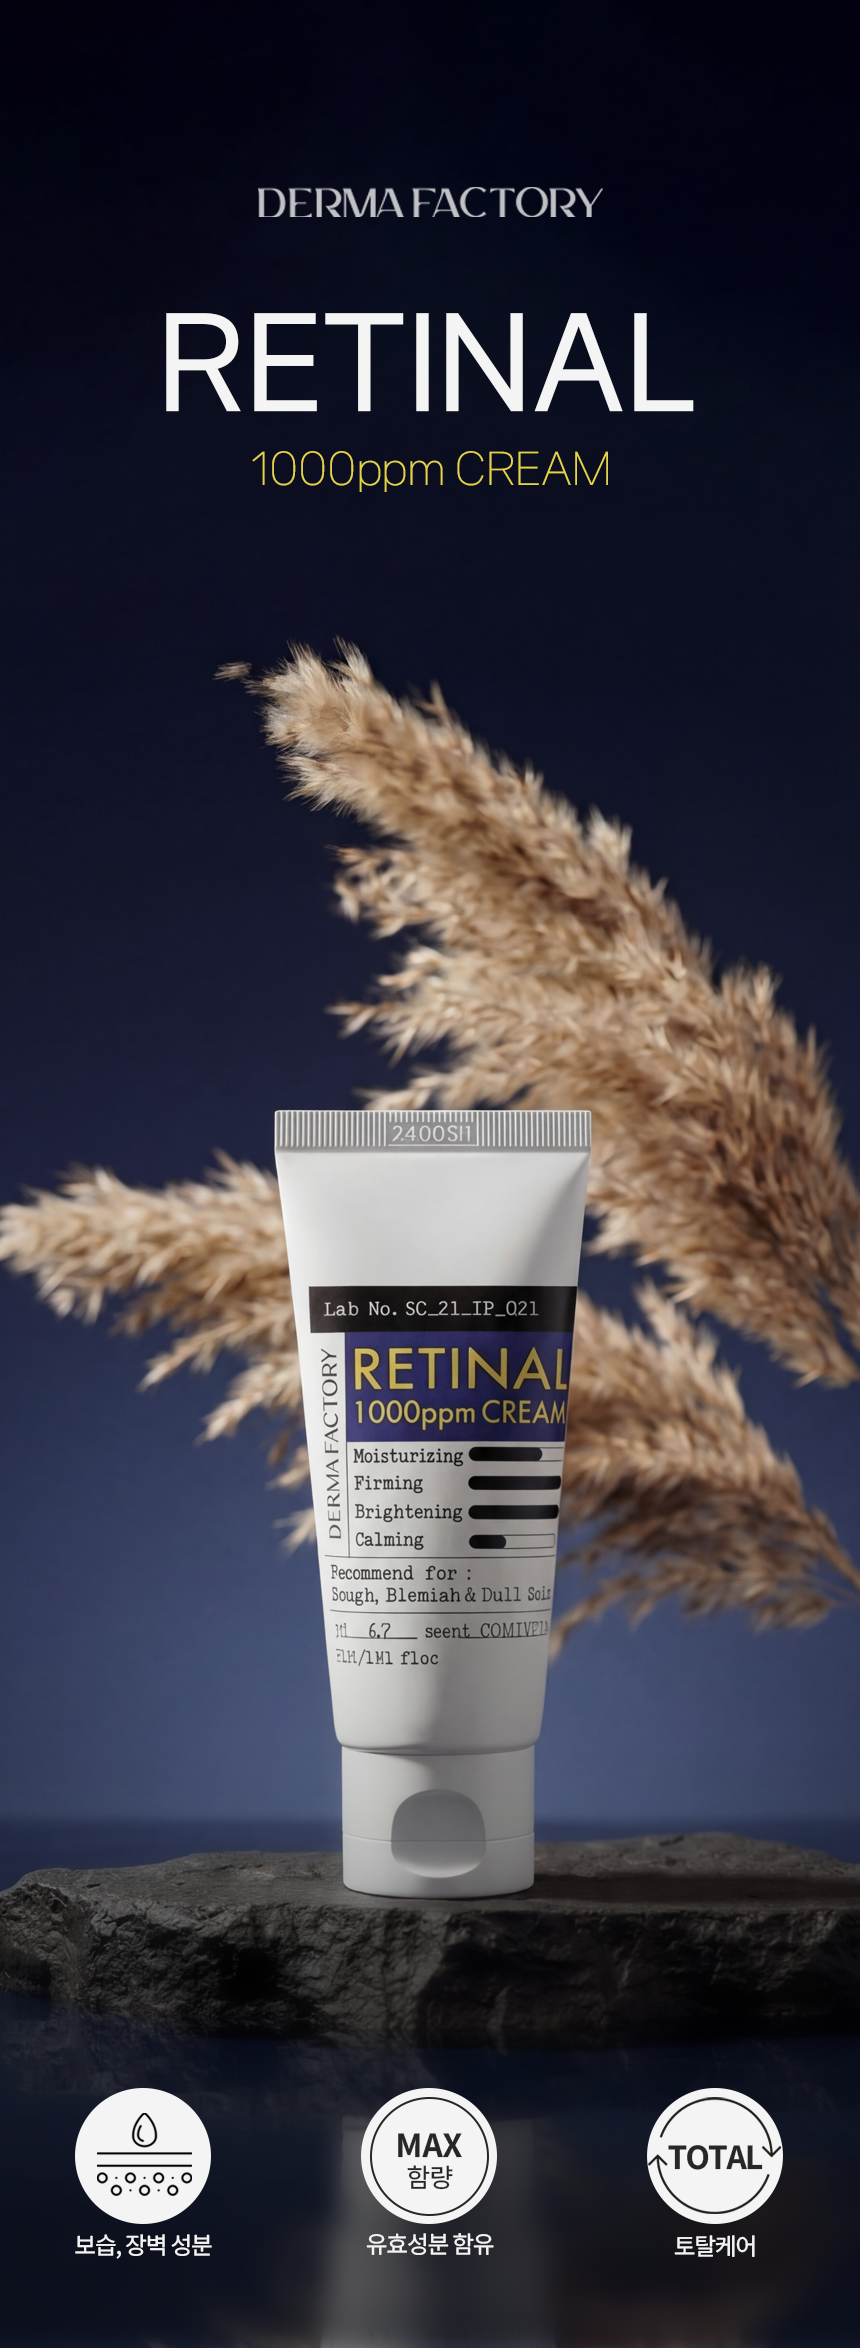
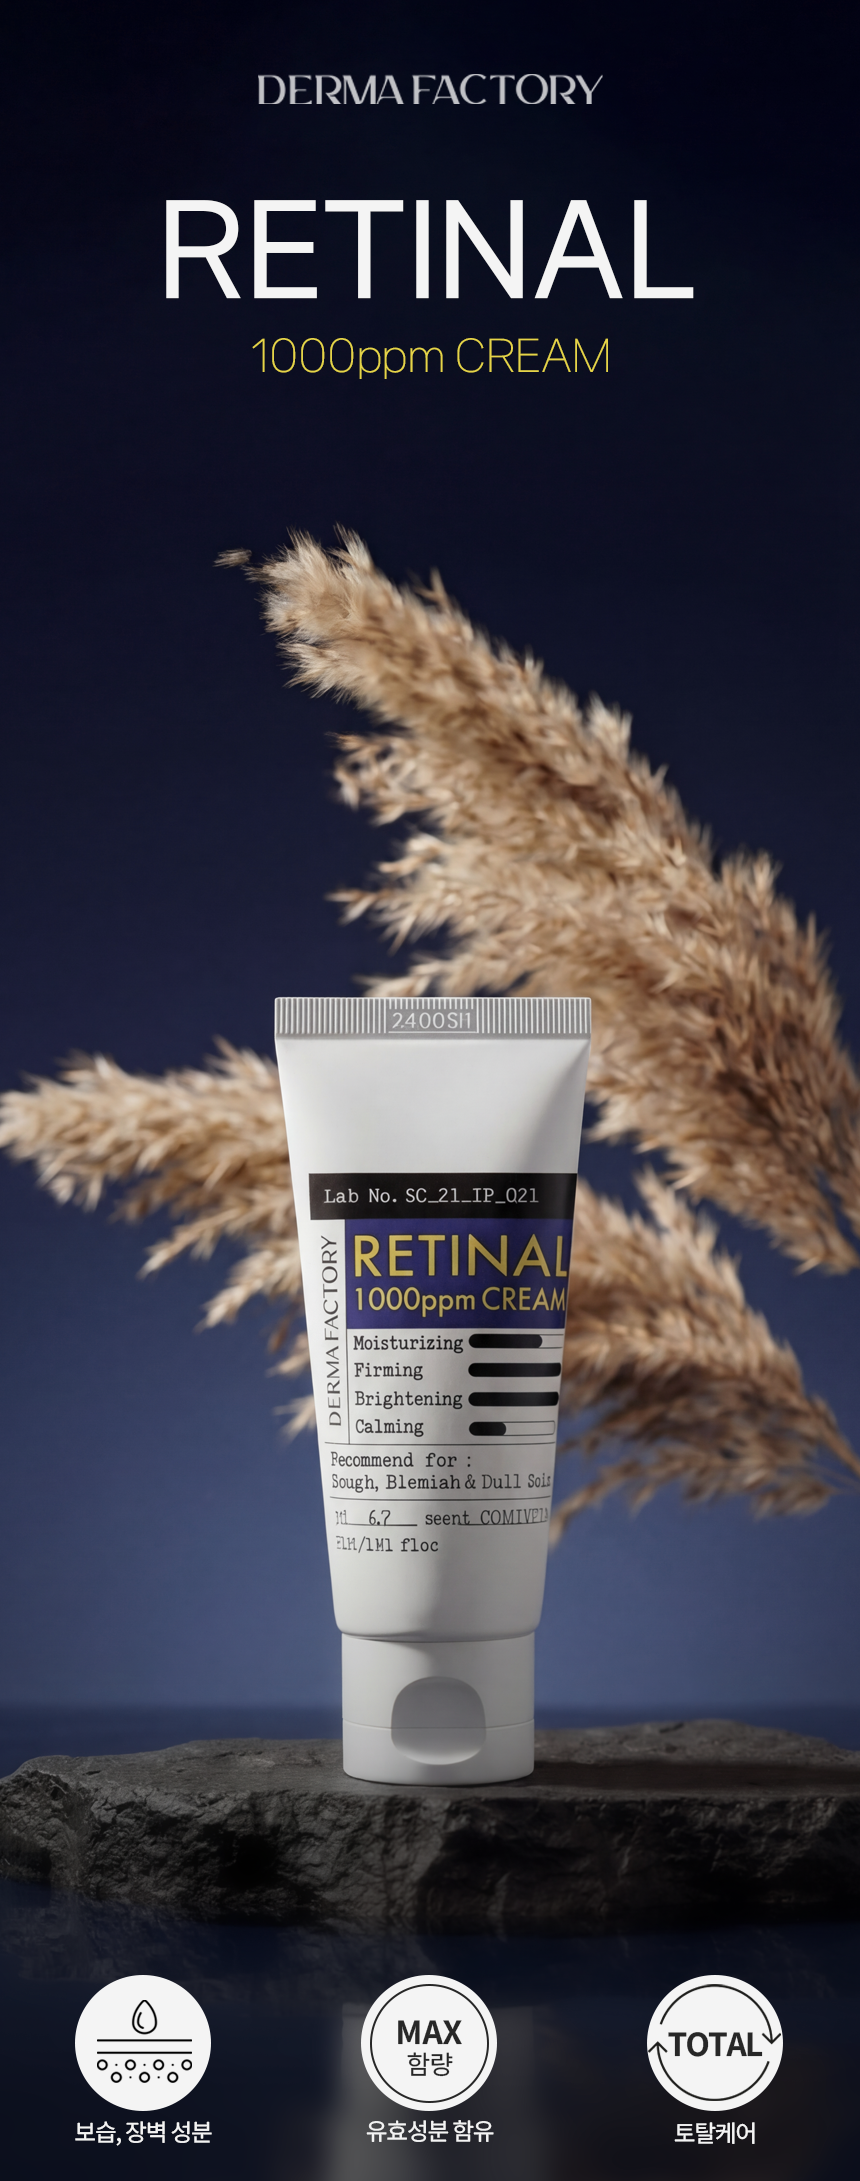
여백수정 및 모달 추가

Changed region(s): [[0.0, 0.0312, 1.0, 1.0], [0.7256, 0.873, 0.907, 1.0], [0.2721, 0.9977, 0.393, 1.0]]

diff --git a/style.css b/style.css
@@ -236,11 +236,11 @@ nav ul li a:hover {
 /* About Section */
 .about-section {
     display: flex;
-    padding: 0 15%;
-    margin-bottom: 120px;
+    padding: 0 10%;
+    margin-bottom: 80px;
     gap: 60px;
     align-items: center;
-    padding-top: 120px;
+    padding-top: 80px;
     padding-bottom: 120px;
 }
 .profile-area {
@@ -347,7 +347,7 @@ nav ul li a:hover {
 .projects-section {
     background-color: #0c0c0c;
     color: #fff;
-    padding: 100px 10%;
+    padding: 80px 10%;
 }
 .section-title {
     text-align: center;
@@ -357,7 +357,7 @@ nav ul li a:hover {
 .project-item {
     display: flex;
     gap: 50px;
-    margin-bottom: 200px;
+    margin-bottom: 120px;
     align-items: center;
 }
 .project-item.reverse {
@@ -562,8 +562,8 @@ nav ul li a:hover {
     transform: scale(1.2); /* 살짝 커지는 효과 */
 }
 .process-block {
-    height: 100vh;
-    display: flex;
+    height: 120px 0;
+    /* display: flex; */
     flex-direction: column;
     justify-content: center;
     scroll-snap-align: center;
@@ -697,8 +697,8 @@ footer h2 {
     align-items: center; /* 수직 중앙 정렬 */
     justify-content: center;
     gap: 8px; /* 글자와 아이콘 사이의 간격 */
-    background: #fff;
-    color: #000;
+    background: #000000;
+    color: #ffffff;
     padding: 8px 24px;
     border: 1px solid #ddd;
     border-radius: 30px;
@@ -718,12 +718,11 @@ footer h2 {
     transition: filter 0.3s ease;
 }
 .btn-download:hover {
-    background: #111;
-    color: #fff;
+    background: #ffffff;
+    color: #000000;
 }
-/* 다운로드 버튼에 마우스를 올렸을 때(hover) 내부 아이콘 하얗게 반전시키기 */
 .btn-download:hover img {
-    filter: brightness(0) invert(1);
+    filter: brightness(0);
 }
 .social-icons {
     display: flex;
@@ -858,4 +857,129 @@ footer h2 {
    id가 contact인 영역 안에서 다운로드 버튼(.btn-download)에 마우스를 올리면 토끼가 올라옵니다 */
 #contact:has(.btn-download:hover) .contact-rabbit-mask img {
     transform: rotate(-250deg) translateY(0); /* 원래 자리로 복귀 (까꿍!) */
+}
+
+/* 모달 배경 (어두운 투명 막) */
+.modal-overlay {
+    display: none; /* 평소에는 숨겨둠 */
+    position: fixed;
+    top: 0;
+    left: 0;
+    width: 100%;
+    height: 100%;
+    background-color: rgba(0, 0, 0, 0.85); /* 반투명 검정 */
+    z-index: 9999;
+    justify-content: center;
+    align-items: center;
+}
+
+/* 모달 실제 내용이 들어가는 박스 */
+.modal-content {
+    position: relative;
+    width: 90%;
+    max-width: 800px; /* 창이 너무 넓어지지 않게 방지 */
+    height: 85vh; /* 창 높이의 85%만 차지 */
+    background-color: #191a2d; /* 다크하고 세련된 네이비 톤 배경 */
+    border-radius: 12px;
+    overflow-y: auto; /* 💡 핵심: 세로로 넘치면 스크롤 생성! */
+    padding: 50px 30px;
+    box-shadow: 0 10px 30px rgba(0, 0, 0, 0.5);
+}
+
+/* 모달 닫기 버튼 (우측 상단) */
+.close-btn {
+    position: absolute;
+    top: 15px;
+    right: 25px;
+    font-size: 35px;
+    color: #fff;
+    cursor: pointer;
+    z-index: 10000;
+    transition:
+        color 0.3s ease,
+        transform 0.3s ease;
+}
+
+.close-btn:hover {
+    color: #ff5555; /* 마우스 올렸을 때 살짝 포인트 컬러 */
+    transform: scale(1.1);
+}
+/* 다운로드 버튼 안의 아이콘 크기 고정 */
+.btn-download img {
+    height: 20px !important; /* 💡 !important를 붙여서 절대 커지지 못하게 강제합니다 */
+    width: auto !important;
+    margin-left: 8px;
+    vertical-align: middle;
+}
+
+/* 모달 상단 텍스트 영역 */
+.modal-header {
+    text-align: center;
+    margin-bottom: 40px;
+    color: #fff;
+}
+
+.modal-header h3 {
+    font-size: 22px;
+    color: #fff;
+    margin-bottom: 30px;
+    text-align: center;
+}
+
+/* 2. 프로젝트 정보 리스트 전체 틀 */
+.project-info-list {
+    list-style: none; /* 기본 점 없애기 */
+    padding: 0;
+    margin: 0 auto;
+    max-width: 95%; /* 텍스트가 모달창 끝에 닿지 않게 여백 조절 */
+    display: flex;
+    flex-direction: column;
+    gap: 16px; /* 각 항목(목적, 키포인트, 툴) 사이의 시원한 간격 */
+    text-align: left;
+    word-break: keep-all;
+}
+.project-info-list li:last-child {
+    border-bottom: none; /* 선 없애기 */
+    padding-bottom: 0; /* 불필요한 여백 없애기 */
+}
+
+/* 3. 개별 항목 (가로 정렬의 핵심) */
+.project-info-list li {
+    display: flex; /* 라벨과 설명을 가로로 배치 */
+    align-items: flex-start; /* 텍스트 위쪽 선 맞춤 */
+    font-size: 15px;
+    line-height: 1.6;
+    color: #cccccc;
+    padding-bottom: 16px; /* 글씨와 아래 선 사이의 여백 */
+    border-bottom: 1px solid rgba(255, 255, 255, 0.1); /* 10% 투명도의 아주 얇은 흰색 선 */
+}
+
+/* 4. 라벨 디자인 ('제작 목적', '키포인트' 등) */
+.project-info-list strong {
+    color: #ffffff;
+    font-weight: 700; /* 글씨를 두껍게 해서 하이라이트 */
+    min-width: 80px; /* 💡 핵심: 라벨의 너비를 고정해서 설명글의 시작점을 모두 똑같이 맞춤 */
+    margin-right: 15px;
+    flex-shrink: 0; /* 창이 좁아져도 라벨 너비가 찌그러지지 않게 보호 */
+}
+
+/* 5. 설명글 설정 */
+.project-info-list span {
+    word-break: keep-all; /* 한국어 단어 단위로 깔끔하게 줄바꿈 되도록 설정 */
+}
+
+/* 모달 하단 이미지 영역 */
+.modal-body img {
+    width: 100%;
+    height: auto;
+    display: block;
+}
+
+/* 모달창 내부 스크롤바 디자인 (선택사항) */
+.modal-content::-webkit-scrollbar {
+    width: 8px;
+}
+.modal-content::-webkit-scrollbar-thumb {
+    background-color: #555;
+    border-radius: 10px;
 }

diff --git a/index.html b/index.html
@@ -497,10 +497,7 @@
 
             <div class="play-item reverse fade-up">
                 <div class="play-image">
-                    <img
-                        src="images/playground_edit.png"
-                        alt="롱폼 편집 썸네일"
-                    />
+                    <img src="images/playground_edit.png" alt="롱폼 편집 썸네일" />
                 </div>
                 <div class="play-text">
                     <h3>콘텐츠 편집</h3>
@@ -513,7 +510,12 @@
 
             <div class="play-item fade-up">
                 <div class="play-image vertical">
-                    <img src="images/retinal_cream.png" alt="상세페이지 디자인 이미지" />
+                    <img
+                        src="images/retinal_cream.png"
+                        alt="상세페이지 디자인 이미지"
+                        class="modal-trigger"
+                        style="cursor: pointer"
+                    />
                 </div>
                 <div class="play-text">
                     <h3>상세페이지 디자인</h3>
@@ -538,7 +540,7 @@
             <p style="font-size: 12px; margin-bottom: 10px; color: #555">이력서 다운로드</p>
 
             <a href="files/ryugyeongseo_resume.pdf" download="류경서_이력서.pdf" class="btn-download">
-                DOWNLOAD <img src="images/download.png" alt="아이콘" />
+                DOWNLOAD <img src="images/download_2.png" alt="아이콘" />
             </a>
 
             <div class="social-icons">
@@ -563,6 +565,45 @@
                         allow="autoplay; encrypted-media"
                         allowfullscreen
                     ></iframe>
+                </div>
+            </div>
+        </div>
+        <div id="detailModal" class="modal-overlay">
+            <span class="close-btn">&times;</span>
+            <div class="modal-content">
+                <!-- 닫기 버튼 -->
+
+                <!-- 모달 상단 텍스트 영역 -->
+                <div class="modal-header">
+                    <h3>[더마팩토리] 레티날 1000PPM 크림</h3>
+
+                    <ul class="project-info-list">
+                        <li>
+                            <strong>제작 목적</strong>
+                            <span
+                                >장식적인 요소를 배제한 미니멀한 에디토리얼 디자인을 통해, 고함량 레티날 제품의 효능과
+                                성분 본질에 집중할 수 있도록 직관적이고 신뢰감 있는 상세페이지로 리디자인
+                                했습니다.</span
+                            >
+                        </li>
+                        <li>
+                            <strong>키포인트</strong>
+                            <span
+                                >레티날 성분 특유의 '노란빛 제형'이 직관적으로 돋보일 수 있도록 고해상도 텍스처 컷과
+                                색감을 보정하였습니다.</span
+                            >
+                        </li>
+                        <li>
+                            <strong>사용 툴</strong>
+                            <span>Photoshop, Illustrator, Chat GPT, Gemini, Adobe Firefly</span>
+                        </li>
+                    </ul>
+                </div>
+
+                <!-- 모달 하단 긴 이미지 영역 -->
+                <div class="modal-body">
+                    <!-- 💡 여기에 전체 길이가 긴 상세페이지 원본 이미지를 넣어주세요 -->
+                    <img src="images/modal_retinal.png" alt="상세페이지 풀버전" />
                 </div>
             </div>
         </div>

diff --git a/script.js b/script.js
@@ -175,3 +175,28 @@ document.addEventListener("DOMContentLoaded", function () {
     // 모든 프로세스 블록을 감시하도록 설정
     processBlocks.forEach((block) => observer.observe(block));
 });
+
+document.addEventListener("DOMContentLoaded", () => {
+    const modal = document.getElementById("detailModal");
+    const triggerImg = document.querySelector(".modal-trigger");
+    const closeBtn = document.querySelector(".close-btn");
+
+    // 이미지를 클릭하면 모달 열기 (display: flex로 변경하여 중앙 정렬 활성화)
+    triggerImg.addEventListener("click", () => {
+        modal.style.display = "flex";
+        // 모달 열릴 때마다 스크롤을 맨 위로 초기화
+        modal.querySelector(".modal-content").scrollTop = 0;
+    });
+
+    // 닫기(X) 버튼을 누르면 모달 닫기
+    closeBtn.addEventListener("click", () => {
+        modal.style.display = "none";
+    });
+
+    // 모달창 밖의 어두운 배경을 클릭해도 닫히게 만들기
+    window.addEventListener("click", (e) => {
+        if (e.target === modal) {
+            modal.style.display = "none";
+        }
+    });
+});